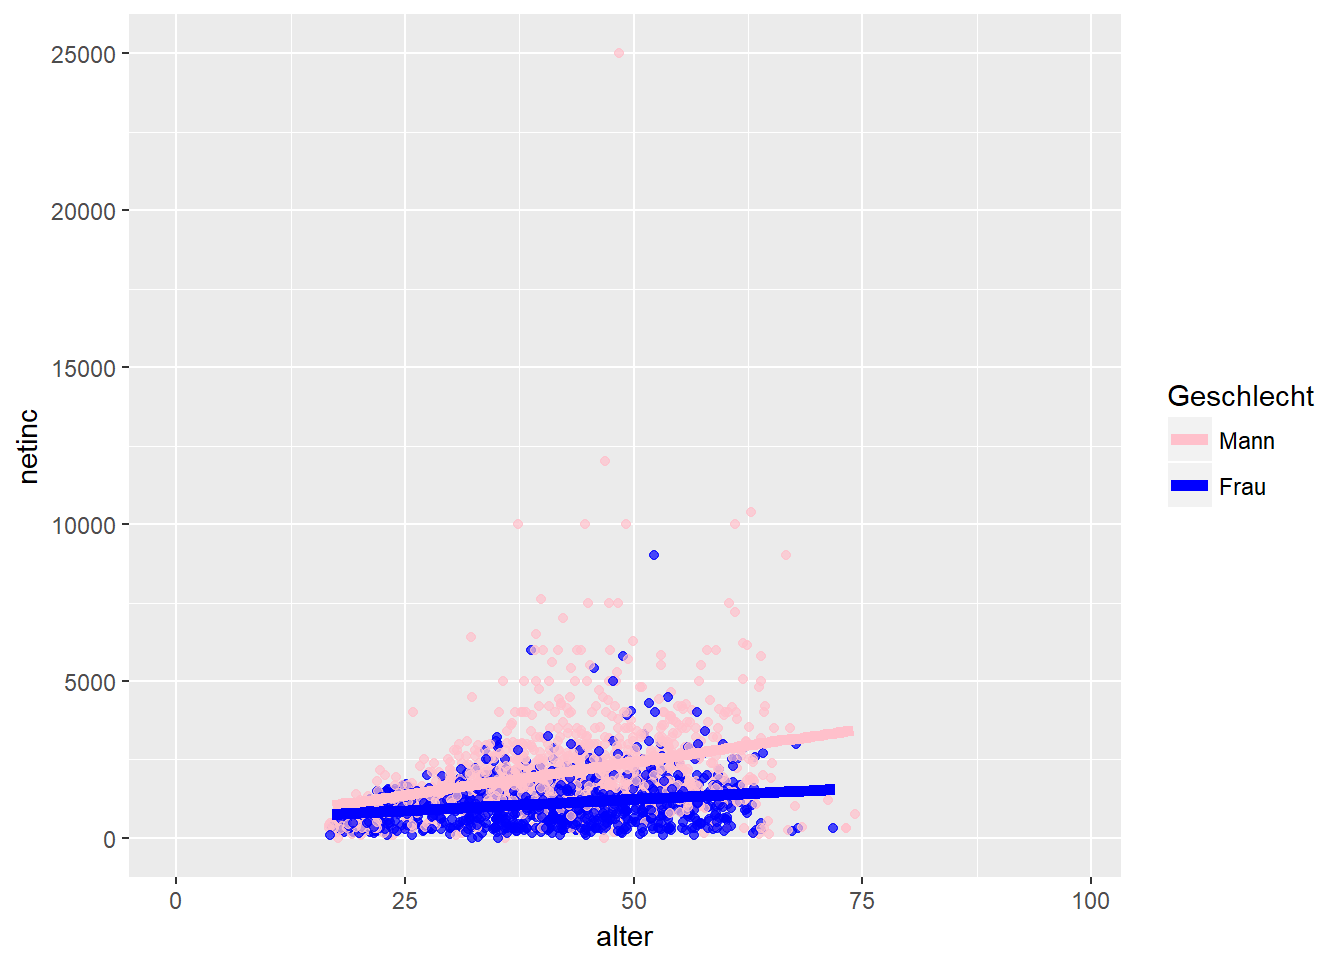
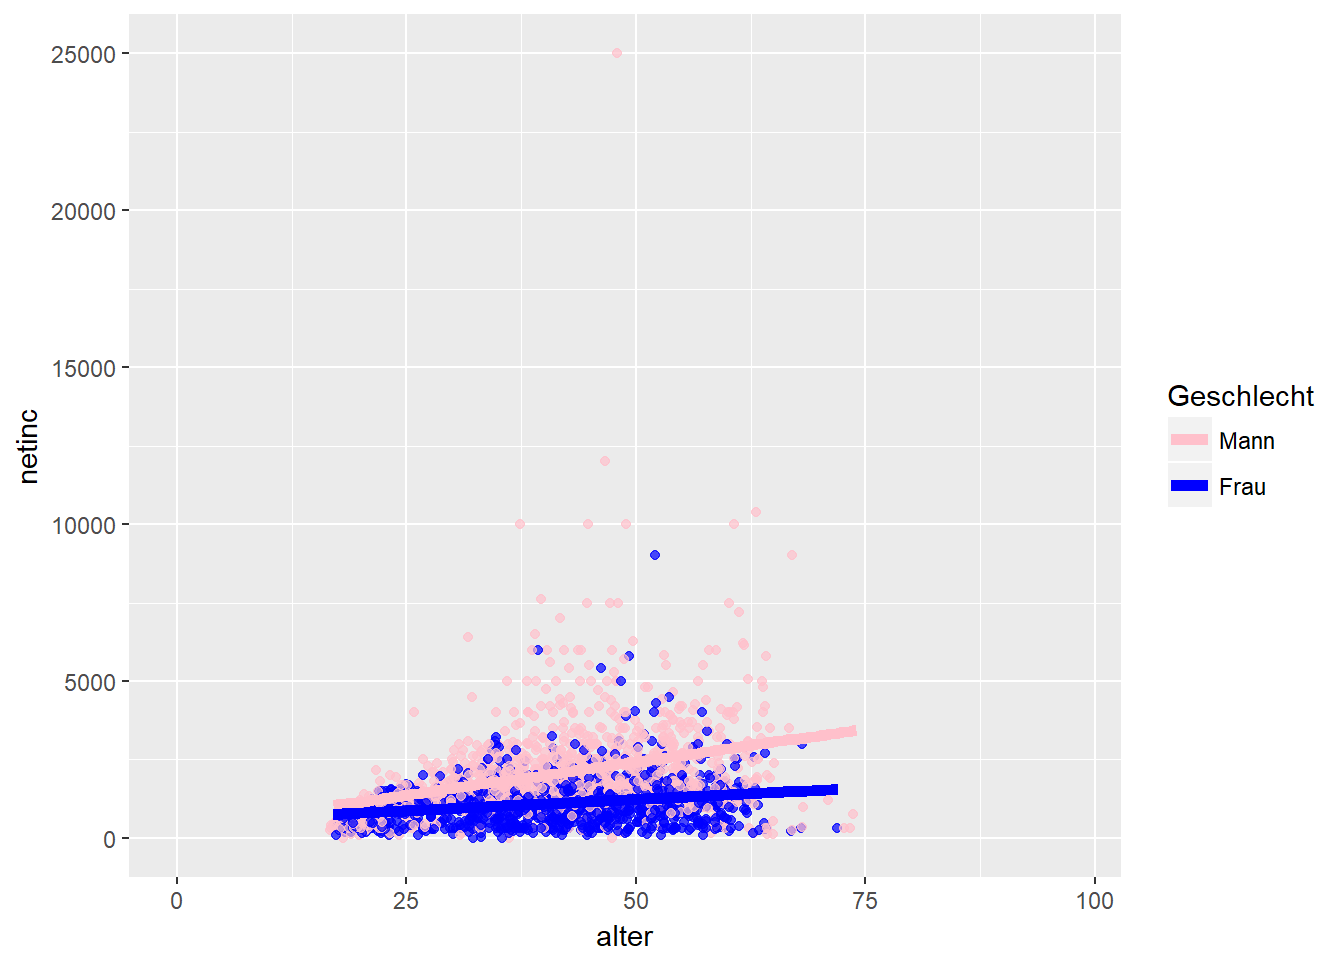
final - new data used

diff --git a/docs/datamanagement.html b/docs/datamanagement.html
@@ -318,12 +318,12 @@ div.tocify {
 <pre class="r"><code># Laden des Datensatzes
 library(readstata13)
 library(tidyverse)</code></pre>
-<pre><code>## -- Attaching packages --------- tidyverse 1.2.1 --</code></pre>
+<pre><code>## -- Attaching packages ------------------------------------------------------------------ tidyverse 1.2.1 --</code></pre>
 <pre><code>## v ggplot2 2.2.1     v purrr   0.2.4
 ## v tibble  1.4.2     v dplyr   0.7.4
 ## v tidyr   0.8.0     v stringr 1.2.0
 ## v readr   1.1.1     v forcats 0.3.0</code></pre>
-<pre><code>## -- Conflicts ------------ tidyverse_conflicts() --
+<pre><code>## -- Conflicts --------------------------------------------------------------------- tidyverse_conflicts() --
 ## x dplyr::filter() masks stats::filter()
 ## x dplyr::lag()    masks stats::lag()</code></pre>
 <pre class="r"><code>library(magrittr)</code></pre>
@@ -383,12 +383,12 @@ econ$netinc = recode(econ$tp7602,&quot;-3=NA;-2=NA;-1=NA&quot;)
 econ_data &lt;- econ[,c(&quot;netinc&quot;,&quot;alter&quot;,&quot;sex&quot;,&quot;contract&quot;,&quot;actual&quot;,&quot;trust&quot;,&quot;rely&quot;)]
 head(econ_data)</code></pre>
 <pre><code>##       netinc alter      sex contract actual trust rely
-## 6225      NA    65 männlich       NA     NA     2    3
-## 12634     NA    22 männlich       NA     NA     4    1
-## 8854      NA    64 weiblich       NA     NA     3    2
-## 11364   1204    47 männlich       40     50     3    2
-## 9950    1250    50 männlich       40     43     3    2
-## 14134   1480    30 männlich       35     40     3    3</code></pre>
+## 8688     270    52 weiblich       NA     NA     2    2
+## 5247      NA    78 männlich       NA     NA     3    1
+## 5843    1800    55 männlich     38.5     55     2    3
+## 9694      NA    67 männlich       NA     NA     2    3
+## 5498      NA    26 männlich       NA     NA     3    1
+## 12375     NA    32 weiblich       NA     NA     3    2</code></pre>
 <pre class="r"><code># Delete NAs
 econ_data &lt;- na.omit(econ_data)
 
@@ -398,7 +398,7 @@ hist(econ$netinc)</code></pre>
 <p><img src="datamanagement_files/figure-html/unnamed-chunk-2-1.png" width="672" /></p>
 <pre class="r"><code>quantile(econ_data$netinc)</code></pre>
 <pre><code>##   0%  25%  50%  75% 100% 
-##   30  844 1358 1945 7700</code></pre>
+##    0  870 1383 1880 7500</code></pre>
 <pre class="r"><code>econ_data$inc_kat &lt;- NA
 econ_data$inc_kat [econ_data$netinc &lt; quantile(econ_data$netinc)[2]] &lt;- &quot;Q1&quot;
 econ_data$inc_kat [econ_data$netinc &gt;= quantile(econ_data$netinc)[2] &amp; econ_data$netinc &lt; quantile(econ_data$netinc)[3]] &lt;- &quot;Q2&quot;
@@ -408,7 +408,7 @@ econ_data$inc_kat [econ_data$netinc &gt;= quantile(econ_data$netinc)[4] ] &lt;- 
 table(econ_data$inc_kat)</code></pre>
 <pre><code>## 
 ##  Q1  Q2  Q3  Q4 
-## 420 420 420 421</code></pre>
+## 421 422 420 423</code></pre>
 </div>
 <div id="advanced-dm-the-tidyverse" class="section level1">
 <h1><span class="header-section-number">3</span> Advanced DM: The tidyverse</h1>
@@ -422,12 +422,12 @@ table(econ_data$inc_kat)</code></pre>
 
 head(econ_data)</code></pre>
 <pre><code>##   netinc alter      sex contract actual trust rely inc_kat alter_squared
-## 1   1204    47 männlich       40     50     3    2      Q2          2209
-## 2   1250    50 männlich       40     43     3    2      Q2          2500
-## 3   1480    30 männlich       35     40     3    3      Q3           900
-## 4   1800    28 männlich       38     45     2    3      Q3           784
-## 5   1200    31 weiblich       38     50     2    2      Q2           961
-## 6    990    35 männlich       40     50     3    3      Q2          1225</code></pre>
+## 1   1800    55 männlich     38.5     55     2    3      Q3          3025
+## 2    325    33 weiblich      8.0      8     2    3      Q1          1089
+## 3    880    33 weiblich     40.0     43     2    2      Q2          1089
+## 4   1230    32 weiblich     27.0     27     2    3      Q2          1024
+## 5    100    41 weiblich      6.0      6     2    3      Q1          1681
+## 6    760    41 weiblich     19.3     23     3    3      Q1          1681</code></pre>
 </div>
 <div id="summarise" class="section level2">
 <h2><span class="header-section-number">3.2</span> Summarise</h2>
@@ -436,7 +436,7 @@ head(econ_data)</code></pre>
   summarise(mean = mean(alter,na.rm = T),
             sd = sd(alter,na.rm = T))</code></pre>
 <pre><code>##       mean       sd
-## 1 40.39084 11.50927</code></pre>
+## 1 40.70047 11.51945</code></pre>
 </div>
 <div id="group_by" class="section level2">
 <h2><span class="header-section-number">3.3</span> group_by</h2>
@@ -448,7 +448,7 @@ head(econ_data)</code></pre>
 <pre><code>## # A tibble: 1 x 2
 ##    mean    sd
 ##   &lt;dbl&gt; &lt;dbl&gt;
-## 1  40.4  11.5</code></pre>
+## 1  40.7  11.5</code></pre>
 </div>
 </div>
 

diff --git a/docs/objectsndata.html b/docs/objectsndata.html
@@ -317,7 +317,7 @@ div.tocify {
 <div id="file-names" class="section level1">
 <h1><span class="header-section-number">1</span> File names</h1>
 <p>Be sure to save all your files (especially the data input) in the folders below where you have started your project. To let R open files you have to use the forward slash (not the backward one). Example:</p>
-<pre class="r"><code>a=read.csv2(&quot;data/econometrics.csv&quot;) # reads a csv file saved in the data folder. The file is named econometrics.csv
+<pre class="r"><code>a=read.csv2(&quot;data/wages2.csv&quot;) # reads a csv file saved in the data folder. The file is named econometrics.csv
 # As explained bevore everything behind a # (Hashtag) is not run by R.
 # #&#39;s are very useful for commenting and making sense out of your code. 
 a=read.csv2(&quot;data/econometrics.csv&quot;)</code></pre>
